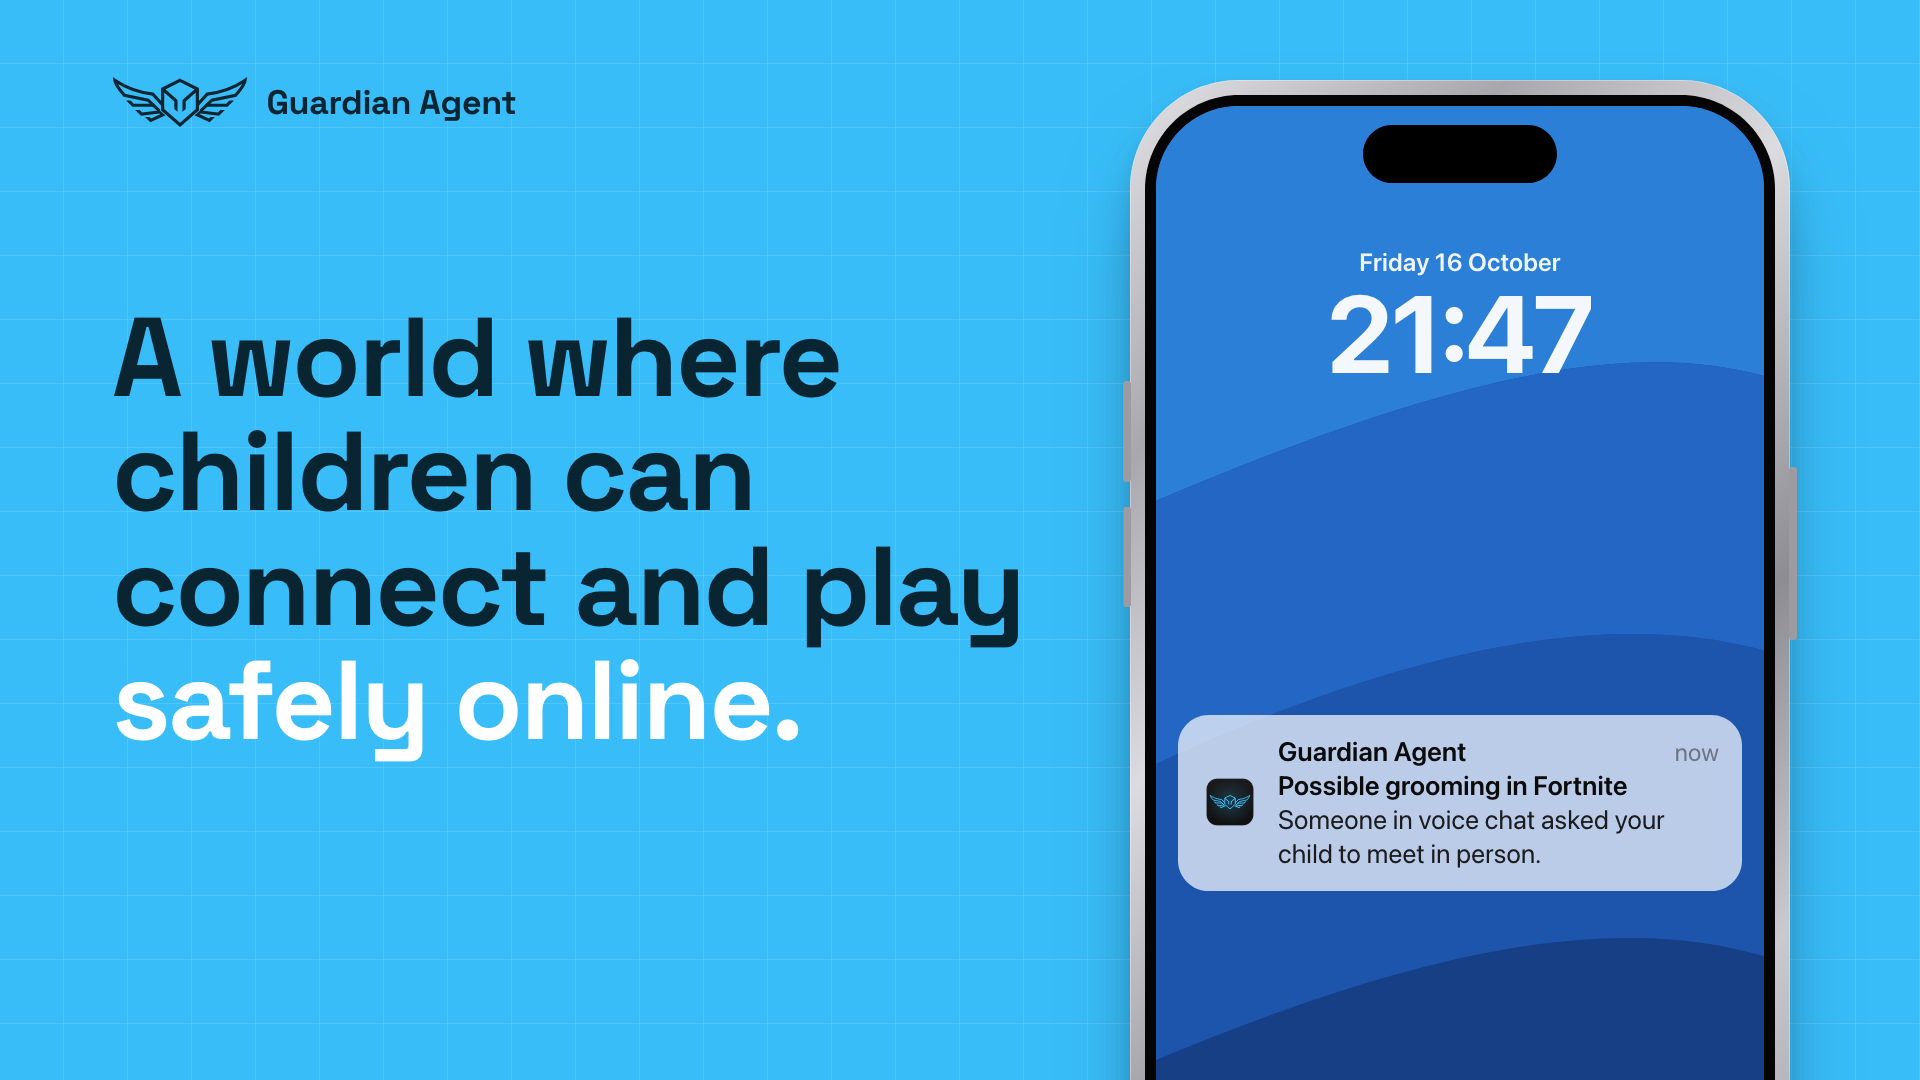
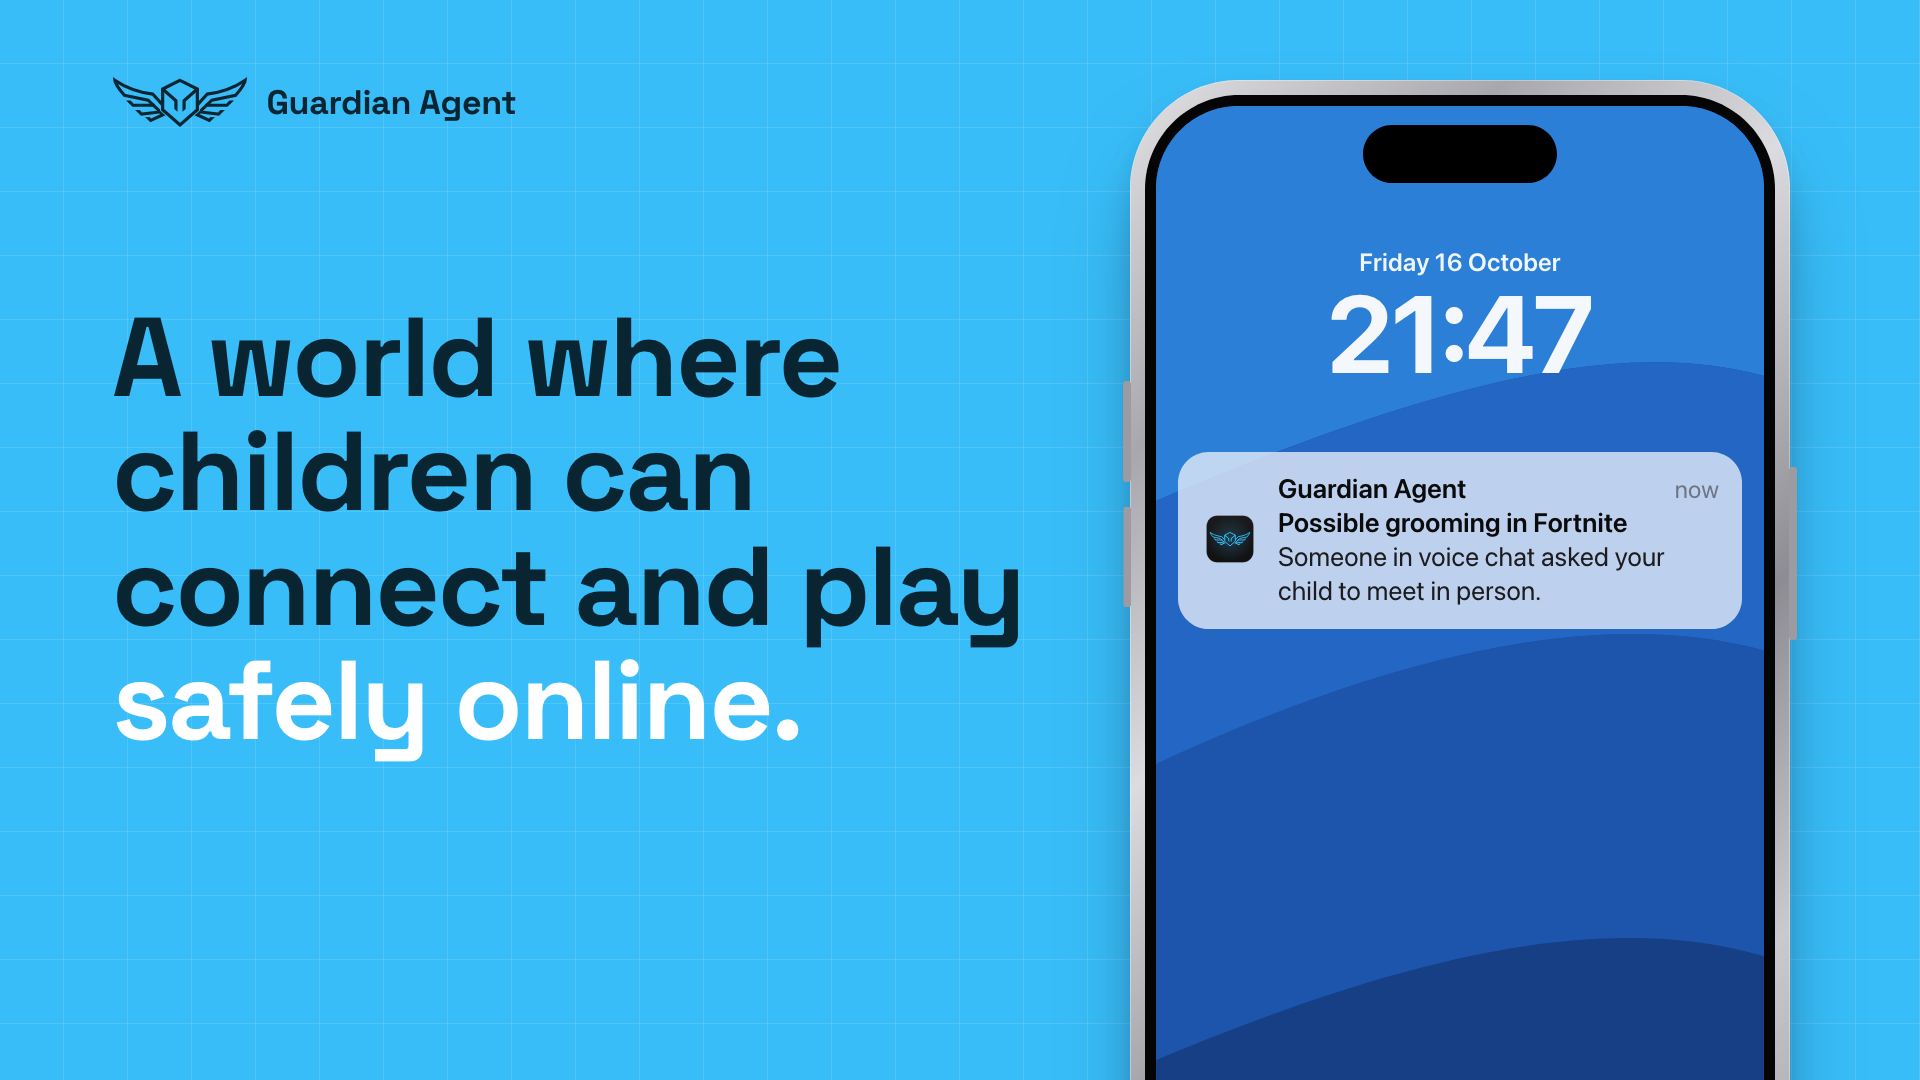
Update pitch slides

Changed region(s): [[0.5938, 0.6417, 0.9062, 0.825], [0.5938, 0.3972, 0.9062, 0.5806]]

diff --git a/slides/v5c-zero.html b/slides/v5c-zero.html
@@ -7,27 +7,28 @@
 <link rel="stylesheet" href="sky.css">
 <title>Guardian Agent: Sky, Zero</title>
 <style>
-  h1 { position: absolute; left: 112px; top: 190px; width: 1020px; font-size: 84px; line-height: 1.03; }
-  .zeros { position: absolute; left: 112px; top: 520px; }
-  .plans { position: absolute; left: 112px; top: 760px; width: 960px; }
+  h1 { position: absolute; left: 112px; top: 200px; width: 1000px; font-size: 92px; line-height: 1.03; }
+  .plans { position: absolute; left: 112px; top: 580px; width: 960px; }
+  .team { position: absolute; left: 112px; bottom: 44px; display: flex; align-items: center; gap: 28px; font-size: 24px; line-height: 1.3; }
+  .team img { height: 150px; width: auto; transform: rotate(-2.5deg); box-shadow: 0 14px 28px -12px rgb(0 0 0 / 0.45), 0 2px 6px -2px rgb(0 0 0 / 0.25); }
+  .team b { display: block; font-weight: 600; font-size: 26px; }
+  .team span { display: block; }
+  .team .people { column-gap: 44px; }
   .iphone { --w: 600px; position: absolute; right: 120px; top: 110px; }
   .ios-notif { font-size: 1.1em; }
-  .lock__stack { top: 34%; display: grid; gap: 0.55em; }
+
 </style>
 </head>
 <body>
 <main class="slide">
   <div class="lockup"><img src="../assets/logo-navy.svg" alt="">Guardian Agent</div>
   <h1>A world where children can connect and play <em>safely online.</em></h1>
-  <div class="zeros">
-    <div class="zero"><svg viewBox="0 0 24 24" aria-hidden="true"><path d="M7 18a4.5 4.5 0 0 1-.5-9A6 6 0 0 1 18 9.5a4 4 0 0 1-.5 8.5H7z"/><path d="M4 4l16 16"/></svg><div><b>0</b><span>chats sent<br>to the cloud</span></div></div>
-    <div class="zero"><svg viewBox="0 0 24 24" aria-hidden="true"><rect x="3" y="4" width="18" height="12" rx="2"/><path d="M8 20h8M12 16v4"/><path d="M14.5 8.2A3 3 0 1 0 14.5 12M8.5 9.4h4M8.5 10.9h4"/></svg><div><b>€0</b><span>cloud AI cost,<br>it runs on the PC</span></div></div>
-  </div>
   <div class="plans">
       <div class="plan"><b>Basic</b><div class="price">€6.99<small>/mo</small></div><span>1 device</span></div>
       <div class="plan plan--pick"><i>Most chosen</i><b>Family</b><div class="price">€12.99<small>/mo</small></div><span>4 devices</span></div>
       <div class="plan"><b>Complete</b><div class="price">€19.99<small>/mo</small></div><span>10 devices</span></div>
     </div>
+  <div class="team"><img src="../assets/team-polaroid.png" alt="Marom Sverdlov and Oliver van Erven"><div><div class="people"><div><b>Marom Sverdlov</b><span>Founding Engineer @ Biscuit</span></div><div><b>Oliver van Erven</b><span>AI Engineer @ Prosus</span></div></div><span class="deg">Both MSc AI graduates, UvA</span></div></div>
   <div class="iphone"><div class="iphone__bezel"><div class="iphone__screen">
     <div class="iphone__island"></div>
     <div class="lock">

diff --git a/index.html b/index.html
@@ -66,8 +66,8 @@
       <figcaption><h2>5a. Desktop app</h2><p>The full desktop app window next to the headline, with schools, team and QR below.</p></figcaption></figure>
     <figure><a class="shot" href="slides/png/v5b-phone.png"><img src="slides/png/v5b-phone.png" alt="Option 5b. Phone, minimal" loading="lazy"></a>
       <figcaption><h2>5b. Phone, minimal</h2><p>A realistic iPhone with a Guardian Agent alert on the lock screen. Nothing else.</p></figcaption></figure>
-    <figure><a class="shot" href="slides/png/v5c-zero.png"><img src="slides/png/v5c-zero.png" alt="Option 5c. Zero" loading="lazy"></a>
-      <figcaption><h2>5c. Zero</h2><p>Two minimal stats (0 chats to the cloud, €0 cloud AI cost), the three plans, and the phone with a live alert plus the weekly summary.</p></figcaption></figure>
+    <figure><a class="shot" href="slides/png/v5c-zero.png"><img src="slides/png/v5c-zero.png" alt="Option 5c. Plans and alerts" loading="lazy"></a>
+      <figcaption><h2>5c. Plans and alerts</h2><p>The three plans and the team, with a live alert and the weekly summary on the phone.</p></figcaption></figure>
     <figure><a class="shot" href="slides/png/v5d-app.png"><img src="slides/png/v5d-app.png" alt="Option 5d. Parent app" loading="lazy"></a>
       <figcaption><h2>5d. Parent app</h2><p>The alert as it could look inside a Guardian Agent phone app.</p></figcaption></figure>
     <figure><a class="shot" href="slides/png/v5e-both.png"><img src="slides/png/v5e-both.png" alt="Option 5e. Desktop and phone" loading="lazy"></a>

diff --git a/slides/v5b-phone.html b/slides/v5b-phone.html
@@ -10,7 +10,7 @@
   h1 { position: absolute; left: 112px; top: 300px; width: 960px; font-size: 112px; line-height: 1.02; }
   .iphone { --w: 660px; position: absolute; right: 130px; top: 80px; }
   .ios-notif { font-size: 1.12em; }
-  .lock__stack { top: 44%; }
+
 </style>
 </head>
 <body>
